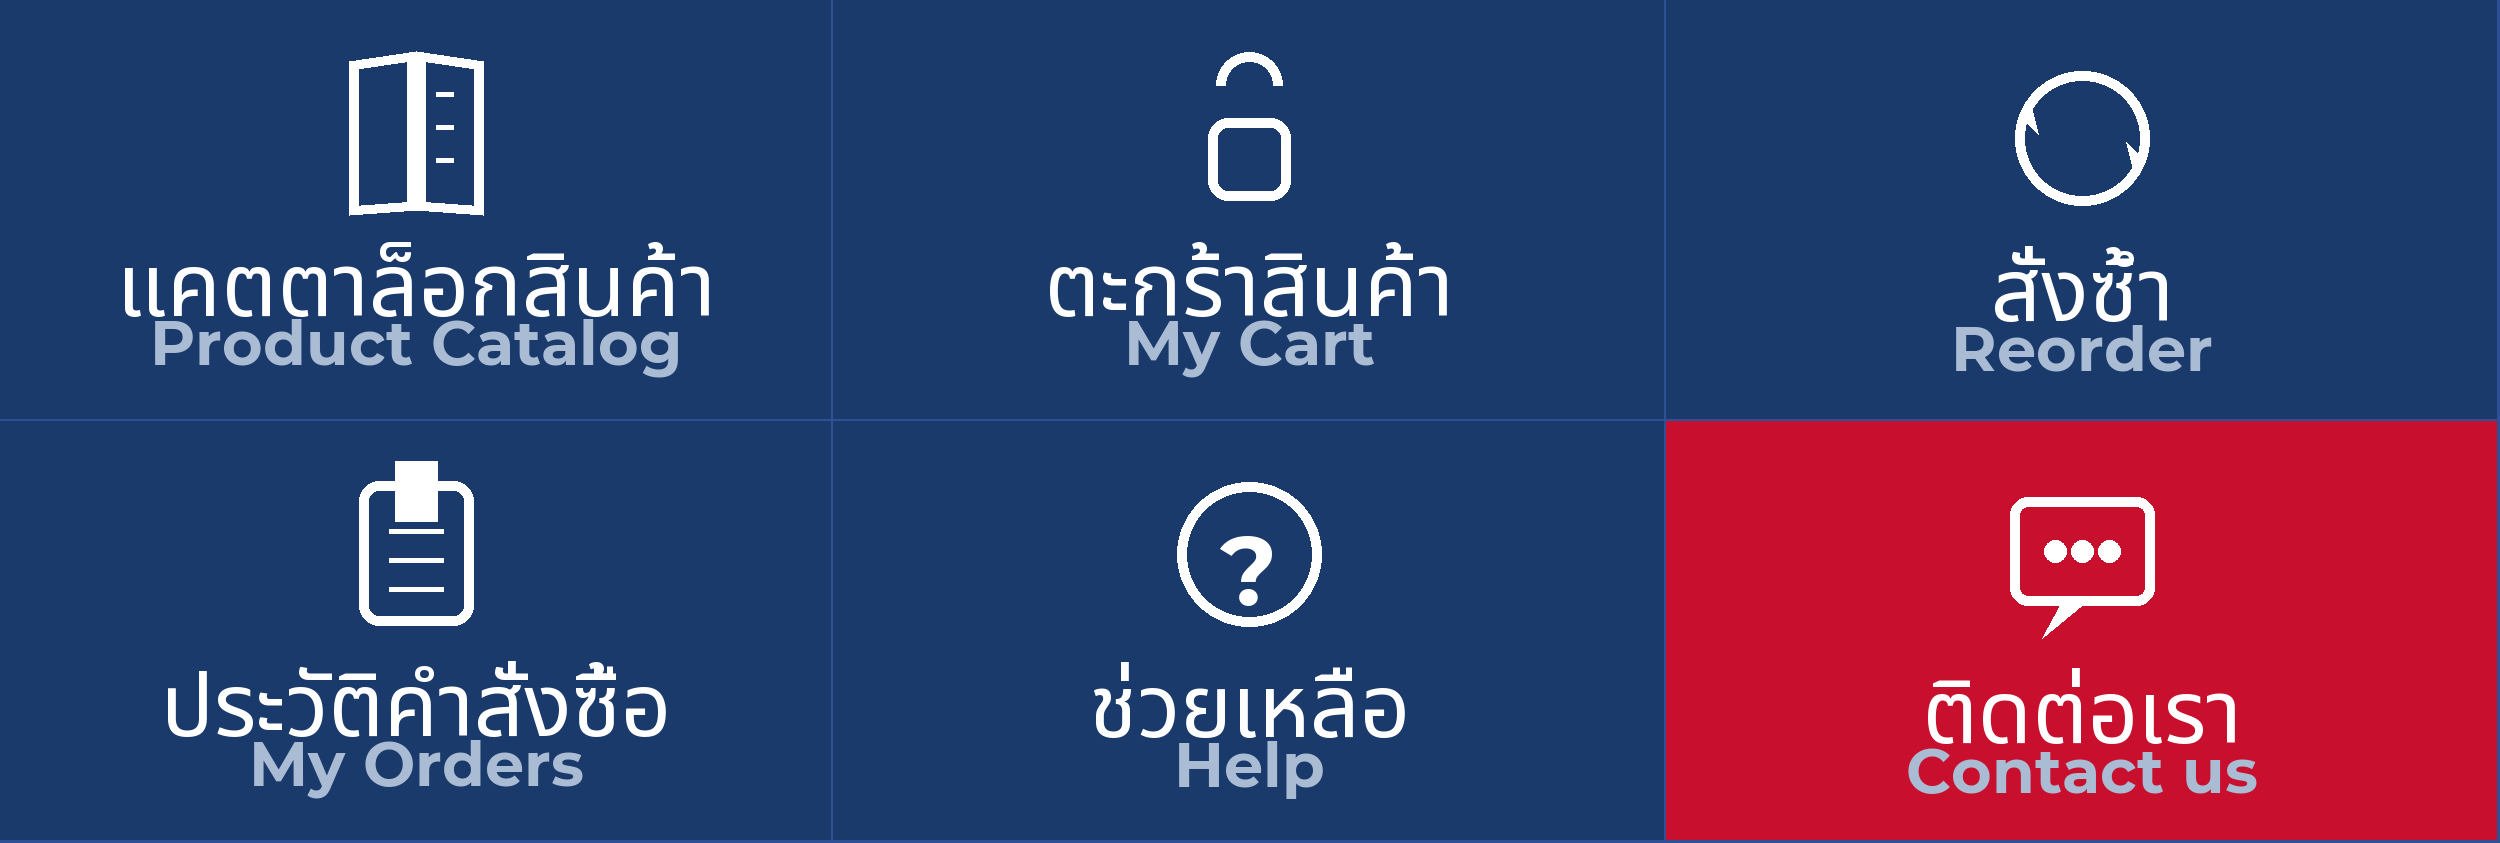
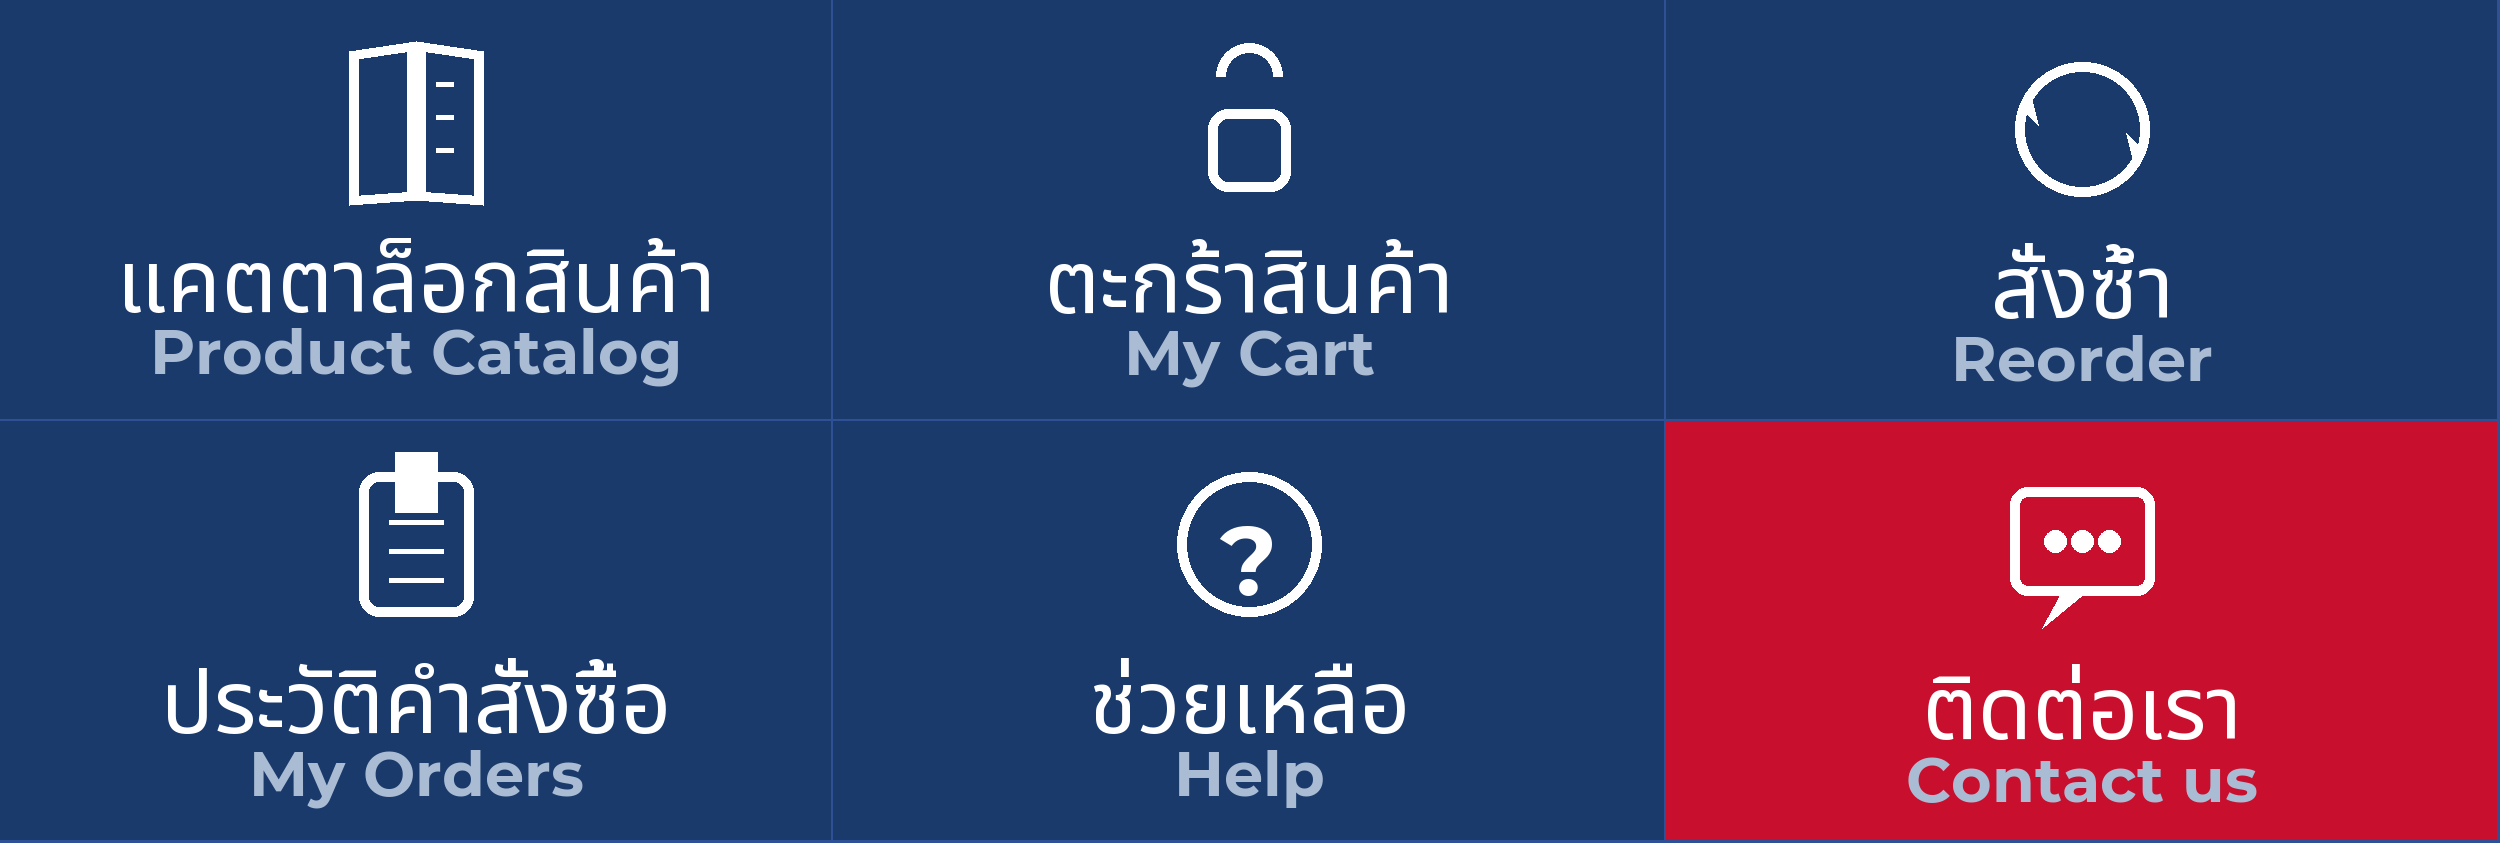
UX: no postback bubbles, category Flex grid, Rich Menu spacing
- Remove displayText from all postback actions (no green bubble in chat)
- Category menu: Flex bubble with buttons (all 5 visible, no scroll)
- Reorder: show previously ordered products as carousel (client picks)
- Rich Menu: increase gap between Thai and English labels

diff --git a/main.py b/main.py
@@ -3479,7 +3479,7 @@ def line_quick_reply(text: str, items: list) -> dict:
     """
     def _action(lbl, txt):
         if txt.startswith("__"):
-            return {"type": "postback", "label": lbl[:20], "data": txt, "displayText": lbl[:20]}
+            return {"type": "postback", "label": lbl[:20], "data": txt}
         return {"type": "message", "label": lbl[:20], "text": txt}
 
     return {
@@ -3744,8 +3744,7 @@ def _line_build_carousel(products: list, pricelist, page: int = 0) -> list:
                         "color": "#1A3A6B", "height": "sm",
                         "action": {
                             "type": "postback", "label": "Add to order",
-                            "data": f"__add_{p['id']}_{sku}",
-                            "displayText": f"Add: {short[:30]}"
+                            "data": f"__add_{p['id']}_{sku}"
                         }
                     },
                     {
@@ -4298,11 +4297,31 @@ async def webhook_line(request: Request):
                 _line_sessions[user_id] = {"category_products": prods, "page": 0}
                 line_reply(reply_token, _line_build_carousel(prods, pricelist, 0))
                 continue
-            quick_items = [(label, f"__cat_{cid}") for cid, label in cats[:13]]
-            line_reply(reply_token, [line_quick_reply(
-                "🇫🇷 *French Delicatessen — PRO Catalog*\n\nSelect a category:",
-                quick_items
-            )])
+            # Flex bubble with category buttons — all visible on one screen
+            cat_buttons = []
+            for cid, label in cats[:10]:
+                cat_buttons.append({
+                    "type": "button", "style": "secondary", "height": "sm",
+                    "action": {"type": "postback", "label": label[:40], "data": f"__cat_{cid}"}
+                })
+            cat_flex = {
+                "type": "flex", "altText": "Select a category",
+                "contents": {
+                    "type": "bubble",
+                    "header": {
+                        "type": "box", "layout": "vertical",
+                        "backgroundColor": "#1A3A6B", "paddingAll": "14px",
+                        "contents": [{"type": "text", "text": "French Delicatessen PRO",
+                                      "weight": "bold", "color": "#FFFFFF", "size": "md"}]
+                    },
+                    "body": {
+                        "type": "box", "layout": "vertical",
+                        "paddingAll": "10px", "spacing": "sm",
+                        "contents": cat_buttons
+                    }
+                }
+            }
+            line_reply(reply_token, [cat_flex])
 
         # ── My orders ─────────────────────────────────────────────────────
         elif text_low in ("orders", "my orders", "history"):
@@ -4325,57 +4344,60 @@ async def webhook_line(request: Request):
                     [("Reorder last", "reorder"), ("New order", "menu")]
                 )])
 
-        # ── Reorder last confirmed order ───────────────────────────────────
+        # ── Reorder: show previously ordered products as carousel ──────────
         elif text_low in ("reorder", "recommander", "last order"):
-            last_orders = odoo_execute("sale.order", "search_read",
+            # Collect unique products from last 5 confirmed orders
+            past_orders = odoo_execute("sale.order", "search_read",
                 [[["partner_id", "=", partner["id"]], ["state", "in", ["sale", "done"]]]],
-                {"fields": ["id", "name", "date_order"], "limit": 1, "order": "date_order desc"}
+                {"fields": ["id"], "limit": 5, "order": "date_order desc"}
             )
-            if not last_orders:
+            if not past_orders:
                 line_reply(reply_token, [line_quick_reply(
-                    "No previous confirmed orders found.",
+                    "No previous orders found.",
                     [("Browse catalog", "menu")]
                 )])
             else:
-                last_order = last_orders[0]
-                order_lines = odoo_execute("sale.order.line", "search_read",
-                    [[["order_id", "=", last_order["id"]]]],
-                    {"fields": ["product_id", "product_uom_qty", "price_unit", "name"], "limit": 50}
+                oid_list = [o["id"] for o in past_orders]
+                all_lines = odoo_execute("sale.order.line", "search_read",
+                    [[["order_id", "in", oid_list]]],
+                    {"fields": ["product_id", "product_uom_qty"], "limit": 200}
                 )
-                if not order_lines:
+                # Deduplicate products, keep max qty ordered
+                seen, prod_ids = {}, []
+                for ln in all_lines:
+                    if not ln.get("product_id"):
+                        continue
+                    pid = ln["product_id"][0]
+                    qty = int(ln.get("product_uom_qty", 1))
+                    if pid not in seen:
+                        seen[pid] = qty
+                        prod_ids.append(pid)
+                    else:
+                        seen[pid] = max(seen[pid], qty)
+
+                if not prod_ids:
                     line_reply(reply_token, [line_quick_reply(
-                        f"Order {last_order['name']} has no items.",
+                        "No products found in previous orders.",
                         [("Browse catalog", "menu")]
                     )])
                 else:
-                    pids = [ln["product_id"][0] for ln in order_lines if ln.get("product_id")]
-                    sku_data = odoo_execute("product.product", "search_read",
-                        [[["id", "in", pids]]],
-                        {"fields": ["id", "default_code"], "limit": 100}
+                    prods = odoo_execute("product.product", "search_read",
+                        [[["id", "in", prod_ids], ["active", "=", True]]],
+                        {"fields": ["id", "name", "default_code", "list_price", "description_sale"],
+                         "limit": 100, "context": {"lang": "en_US"}}
                     )
-                    sku_by_id = {p["id"]: str(p.get("default_code") or "").upper() for p in sku_data}
-                    new_cart = []
-                    for ln in order_lines:
-                        if not ln.get("product_id"):
-                            continue
-                        pid   = ln["product_id"][0]
-                        pname = ln["product_id"][1] if isinstance(ln["product_id"], list) else str(ln["product_id"])
-                        qty   = max(1, int(ln.get("product_uom_qty", 1)))
-                        price = float(ln.get("price_unit", 0))
-                        price = _line_get_client_price(pid, price, pricelist)
-                        sku   = sku_by_id.get(pid, "")
-                        new_cart.append({"product_id": pid, "sku": sku,
-                                          "name": pname, "price": price, "qty": qty})
-                    if new_cart:
-                        sess = _line_sessions.get(user_id, {})
-                        _line_sessions[user_id] = {**sess, "cart": new_cart}
-                        date_str = str(last_order.get("date_order", ""))[:10]
-                        line_reply(reply_token,
-                            [line_text(f"Cart loaded from order {last_order['name']} ({date_str}).")]
-                            + _line_cart_messages(new_cart)
-                        )
+                    if not prods:
+                        line_reply(reply_token, [line_quick_reply(
+                            "Products from previous orders are no longer available.",
+                            [("Browse catalog", "menu")]
+                        )])
                     else:
-                        line_reply(reply_token, [line_text("Could not load items from last order.")])
+                        sess = _line_sessions.get(user_id, {})
+                        _line_sessions[user_id] = {**sess, "category_products": prods, "page": 0}
+                        line_reply(reply_token,
+                            [line_text(f"Your {len(prods)} previously ordered product{'s' if len(prods)>1 else ''}:")]
+                            + _line_build_carousel(prods, pricelist, 0)
+                        )
 
         # ── Contact (human support) ────────────────────────────────────────
         elif text_low in ("contact", "ติดต่อ", "ติดต่อเรา"):

diff --git a/setup_richmenu.py b/setup_richmenu.py
@@ -175,8 +175,8 @@ def make_image() -> Image.Image:
         th_bb = d.textbbox((0, 0), th_label, font=f_th)
         th_h  = th_bb[3] - th_bb[1]
 
-        gap    = 14
-        total  = ICON_SIZE + gap + th_h + gap // 2 + en_h
+        gap    = 20
+        total  = ICON_SIZE + gap + th_h + gap + en_h
         top    = y0 + (CH - total) // 2
 
         # Icon center
@@ -189,7 +189,7 @@ def make_image() -> Image.Image:
         d.text((cx - th_w // 2, th_y), th_label, font=f_th, fill=WHITE)
 
         # English label (secondary — smaller, below)
-        en_y = th_y + th_h + gap // 2
+        en_y = th_y + th_h + gap
         en_w = en_bb[2] - en_bb[0]
         d.text((cx - en_w // 2, en_y), en_label, font=f_en, fill=LIGHT)
 
